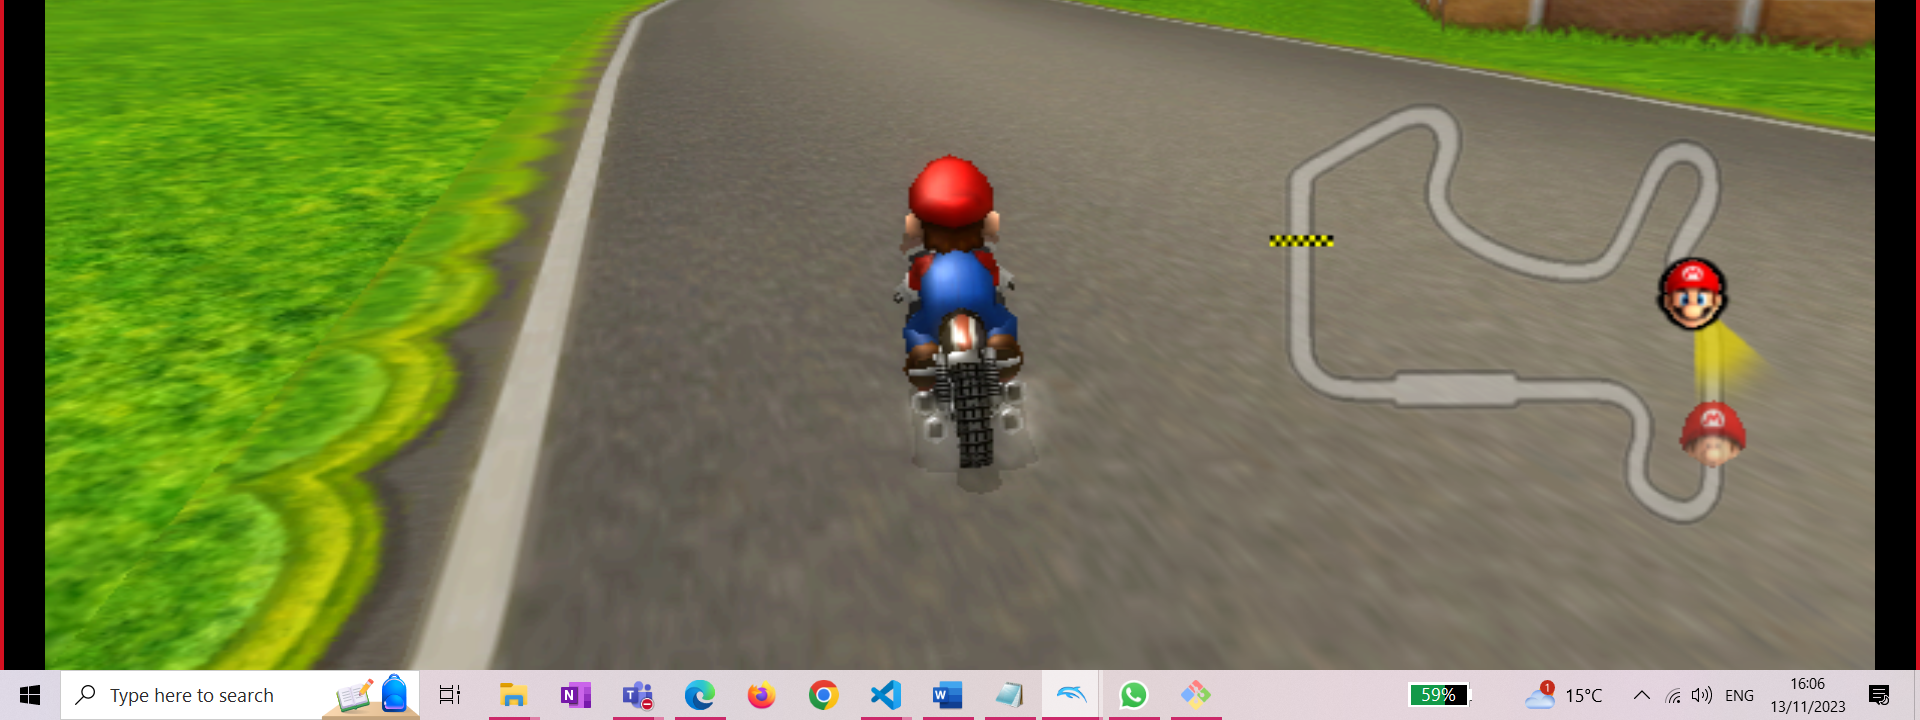
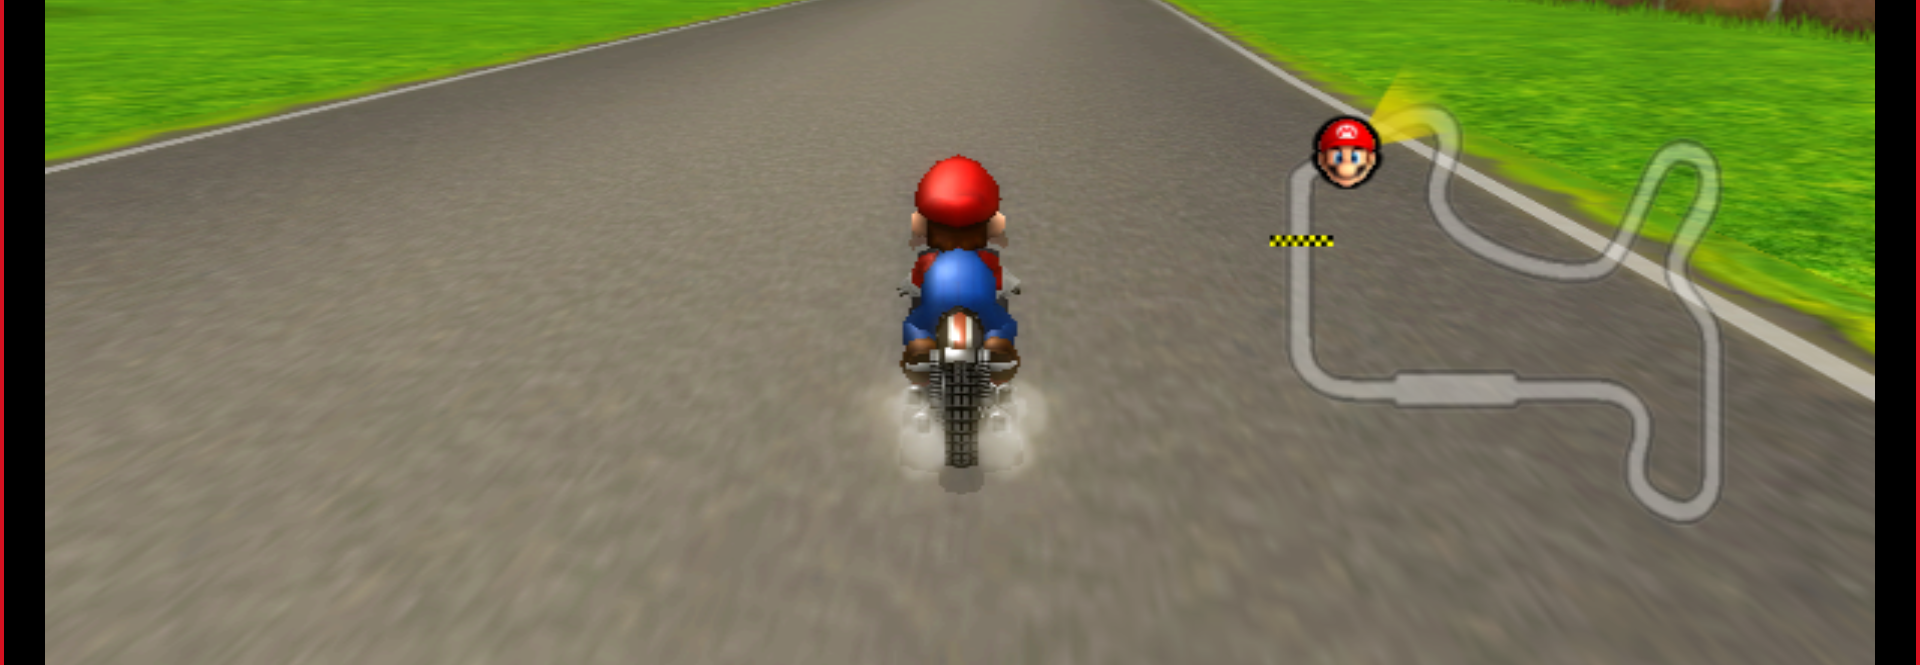
half the screen

diff --git a/samples.py b/samples.py
@@ -6,7 +6,7 @@ time.sleep(10)
 with mss.mss() as sct:
     monitor_info = sct.monitors[0]
     top_margin = monitor_info["height"] // 3
-    monitor = {"top": monitor_info["top"] + top_margin, "left": monitor_info["left"], "width": monitor_info["width"], "height": monitor_info["height"] * 2 // 3}
+    monitor = {"top": monitor_info["top"] + top_margin, "left": monitor_info["left"], "width": monitor_info["width"], "height": (monitor_info["height"] * 2 // 3)-55}
 
     for i in range(1, 21):
         output = f"{i}.png".format(**monitor)
